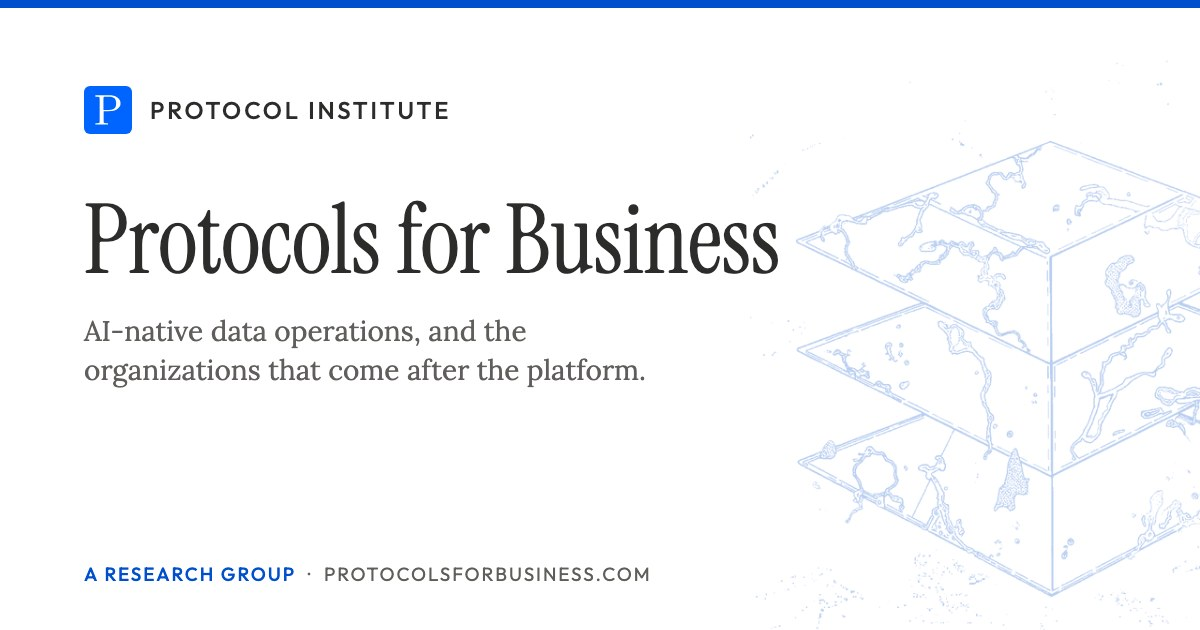
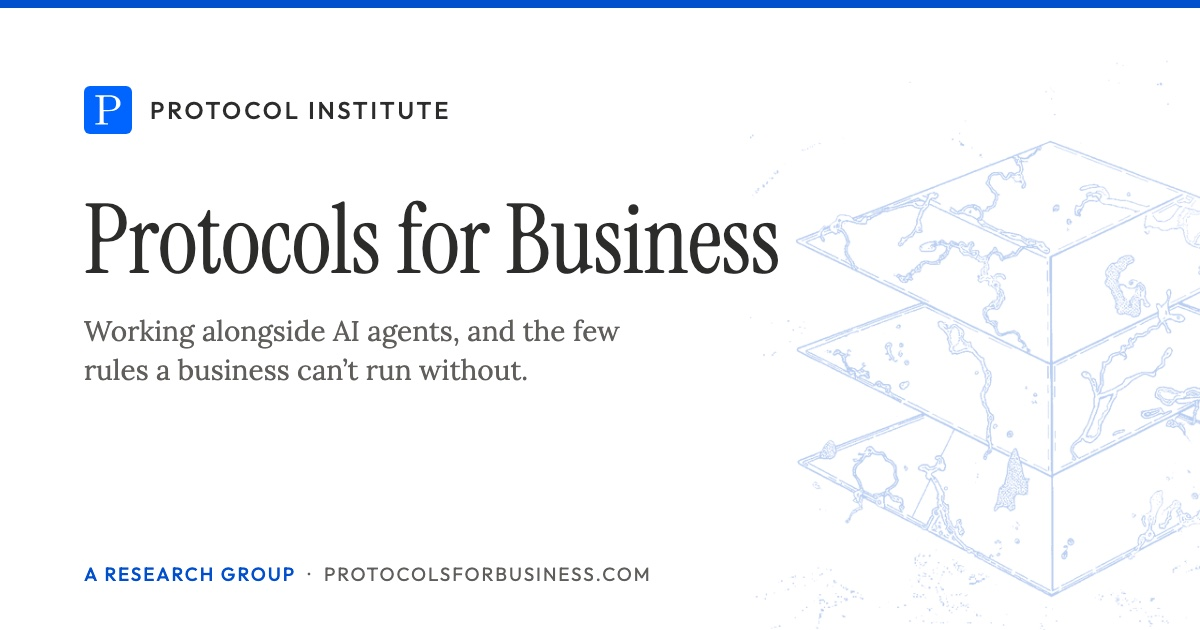
Home share card: the year's focus, working alongside AI agents; image alt text

Changed region(s): [[0.0617, 0.5127, 0.555, 0.6333]]

diff --git a/src/index.html b/src/index.html
@@ -1,4 +1,4 @@
-<!-- {"title": "Protocols for Business", "desc": "A Protocol Institute research group on how organizations coordinate through protocols as AI joins the work, and what that means for our own roles. We train protocol vision and practise Business Protocol Management. Sessions every other Monday.", "path": "", "nav": "", "card": "home"} -->
+<!-- {"title": "Protocols for Business", "desc": "A Protocol Institute research group on how organizations coordinate through protocols as AI joins the work, and what that means for our own roles. We train protocol vision and practise Business Protocol Management. Sessions every other Monday.", "path": "", "nav": "", "card": "home", "card_alt": "Protocols for Business, a Protocol Institute research group: working alongside AI agents, and the few rules a business can’t run without"} -->
 <h1>Protocols for Business</h1>
 <p class="lede">A research group of the <a class="quiet" href="https://protocol-institute.org/">Protocol Institute</a>. We study how organizations coordinate through protocols, and what changes as AI agents join the work. Over the year, members build protocol vision: the capability to see the rules a business really runs on, and to help decide which should be hard. We also practise <a href="research/bpm/">Business Protocol Management</a>: seeing, designing and evolving the few hard protocols that define a business and guide its people and agents.</p>
 <div class="next" data-next><img class="fig-next" src="assets/fig/gather.svg" alt="" width="480" height="200">

diff --git a/index.html b/index.html
@@ -55,6 +55,7 @@
 }
 </script>
 <meta property="og:type" content="website">
+<meta property="og:image:alt" content="Protocols for Business, a Protocol Institute research group: working alongside AI agents, and the few rules a business can’t run without">
 <meta property="og:site_name" content="Protocols for Business">
 <meta property="og:title" content="Protocols for Business">
 <meta property="og:description" content="A Protocol Institute research group on how organizations coordinate through protocols as AI joins the work, and what that means for our own roles. We train protocol vision and practise Business Protocol Management. Sessions every other Monday.">

diff --git a/tools/cards/home.html b/tools/cards/home.html
@@ -14,6 +14,6 @@ p{font-size:28px;line-height:1.4;color:#5f5e5a;margin:0;max-width:600px}
 </style></head><body>
 <div class="art"></div>
 <div class="wrap"><div class="brand"><img src="../../favicon.svg" alt="">Protocol Institute</div>
-<h1>Protocols for Business</h1><p>AI-native data operations, and the organizations that come after the platform.</p></div>
+<h1>Protocols for Business</h1><p>Working alongside AI agents, and the few rules a business can’t run without.</p></div>
 <div class="foot"><b>A research group</b> &nbsp;·&nbsp; protocolsforbusiness.com</div>
 </body></html>
